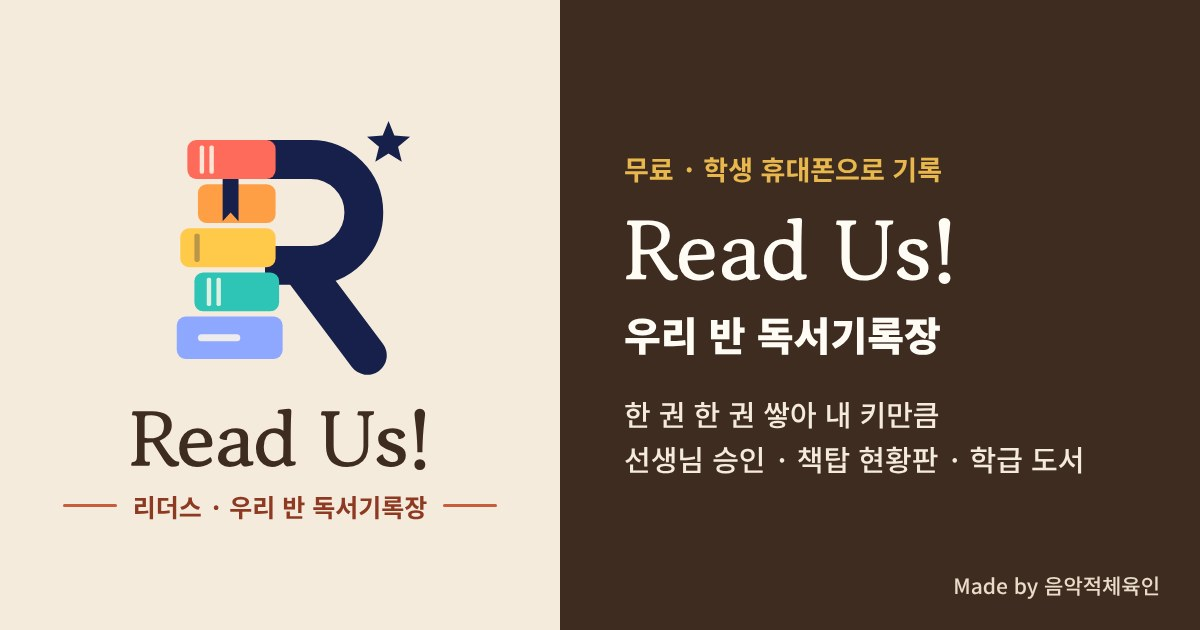
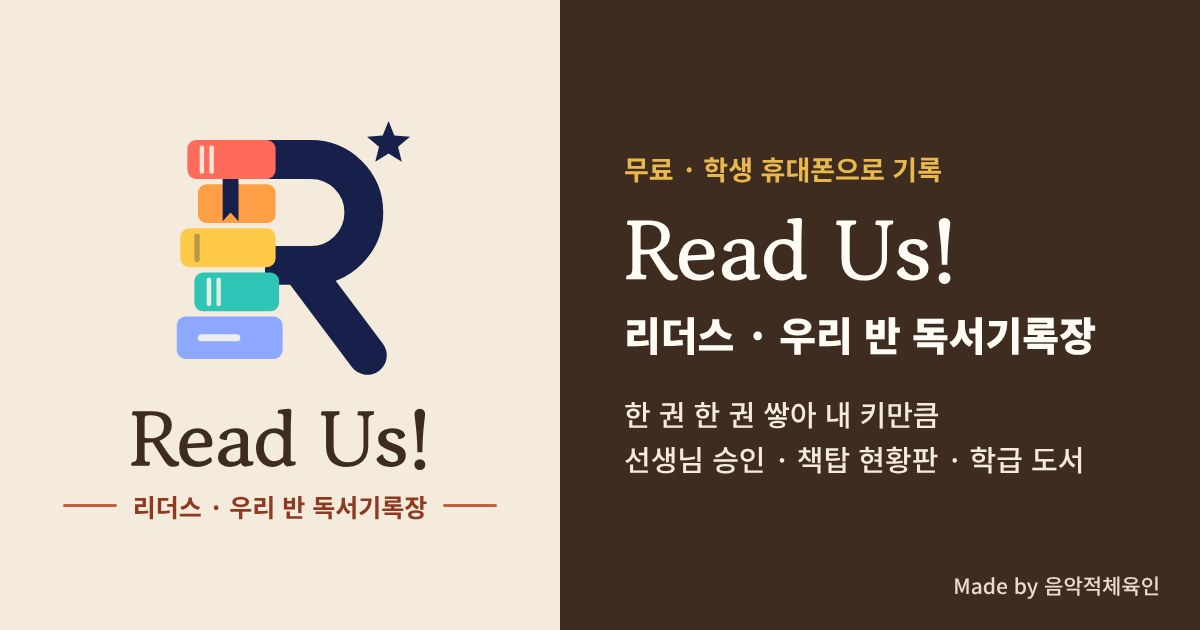
카카오톡 썸네일: 양쪽 글귀를 '리더스 · 우리 반 독서기록장'으로 통일
Claude-Session: https://claude.ai/code/session_012oAFi5DK2xw2x9Njv4ErZ5

Changed region(s): [[0.5242, 0.4825, 0.925, 0.573]]

diff --git a/dev/og.html b/dev/og.html
@@ -18,5 +18,5 @@ body{width:1200px;height:630px;display:flex;font-family:'Noto Sans KR',sans-seri
 .r small{position:absolute;right:40px;bottom:30px;font-size:21px;color:#E9DCC8}
 </style></head><body>
 <div class="l"><svg viewBox="20 20 170 160" aria-hidden="true"><path d="M88 51H114a30 30 0 0 1 0 60H88" fill="none" stroke="#17204A" stroke-width="22"/><path d="M110 114L146 162" fill="none" stroke="#17204A" stroke-width="22" stroke-linecap="round"/><rect x="44" y="40" width="50" height="22" rx="5" fill="#FF6B5A"/><rect x="51" y="43" width="2.5" height="16" rx="1" fill="#FFF8EA" opacity=".85"/><rect x="56.5" y="43" width="2.5" height="16" rx="1" fill="#FFF8EA" opacity=".85"/><rect x="50" y="65" width="44" height="22" rx="5" fill="#FF9F45"/><rect x="40" y="90" width="54" height="22" rx="5" fill="#FFC94A"/><rect x="48" y="93" width="3" height="16" rx="1" fill="#17204A" opacity=".3"/><rect x="48" y="115" width="48" height="22" rx="5" fill="#2EC4B6"/><rect x="55" y="118" width="2.5" height="16" rx="1" fill="#FFF8EA" opacity=".85"/><rect x="60.5" y="118" width="2.5" height="16" rx="1" fill="#FFF8EA" opacity=".85"/><rect x="38" y="140" width="60" height="24" rx="5" fill="#8FA8FF"/><rect x="50" y="150" width="24" height="4" rx="2" fill="#FFF8EA" opacity=".85"/><polygon points="64,62 73,62 73,86 68.5,81 64,86" fill="#17204A"/><polygon points="158,29.2 161.3,37.4 170.2,38.1 163.4,43.8 165.5,52.3 158,47.6 150.5,52.3 152.6,43.8 145.8,38.1 154.7,37.4" fill="#17204A"/></svg><b>Read Us!</b><span>리더스 · 우리 반 독서기록장</span></div>
-<div class="r"><div class="k">무료 · 학생 휴대폰으로 기록</div><h1>Read Us!</h1><h2>우리 반 독서기록장</h2><p>한 권 한 권 쌓아 내 키만큼<br>선생님 승인 · 책탑 현황판 · 학급 도서</p><small>Made by 음악적체육인</small></div>
+<div class="r"><div class="k">무료 · 학생 휴대폰으로 기록</div><h1>Read Us!</h1><h2>리더스 · 우리 반 독서기록장</h2><p>한 권 한 권 쌓아 내 키만큼<br>선생님 승인 · 책탑 현황판 · 학급 도서</p><small>Made by 음악적체육인</small></div>
 </body></html>

diff --git a/index.html b/index.html
@@ -10,7 +10,7 @@
 <meta property="og:title" content="Read Us! 리더스 · 독서기록장">
 <meta property="og:description" content="한 권 한 권 쌓아 내 키만큼, 교실 천장까지. 학생 휴대폰으로 기록하고, 선생님이 승인하면 우리 반 책탑이 쌓여요.">
 <meta property="og:url" content="https://musicalpe.github.io/readus/">
-<meta property="og:image" content="https://musicalpe.github.io/readus/img/og-app.jpg?v=3">
+<meta property="og:image" content="https://musicalpe.github.io/readus/img/og-app.jpg?v=4">
 <meta property="og:image:width" content="1200">
 <meta property="og:image:height" content="630">
 <meta name="twitter:card" content="summary_large_image">
